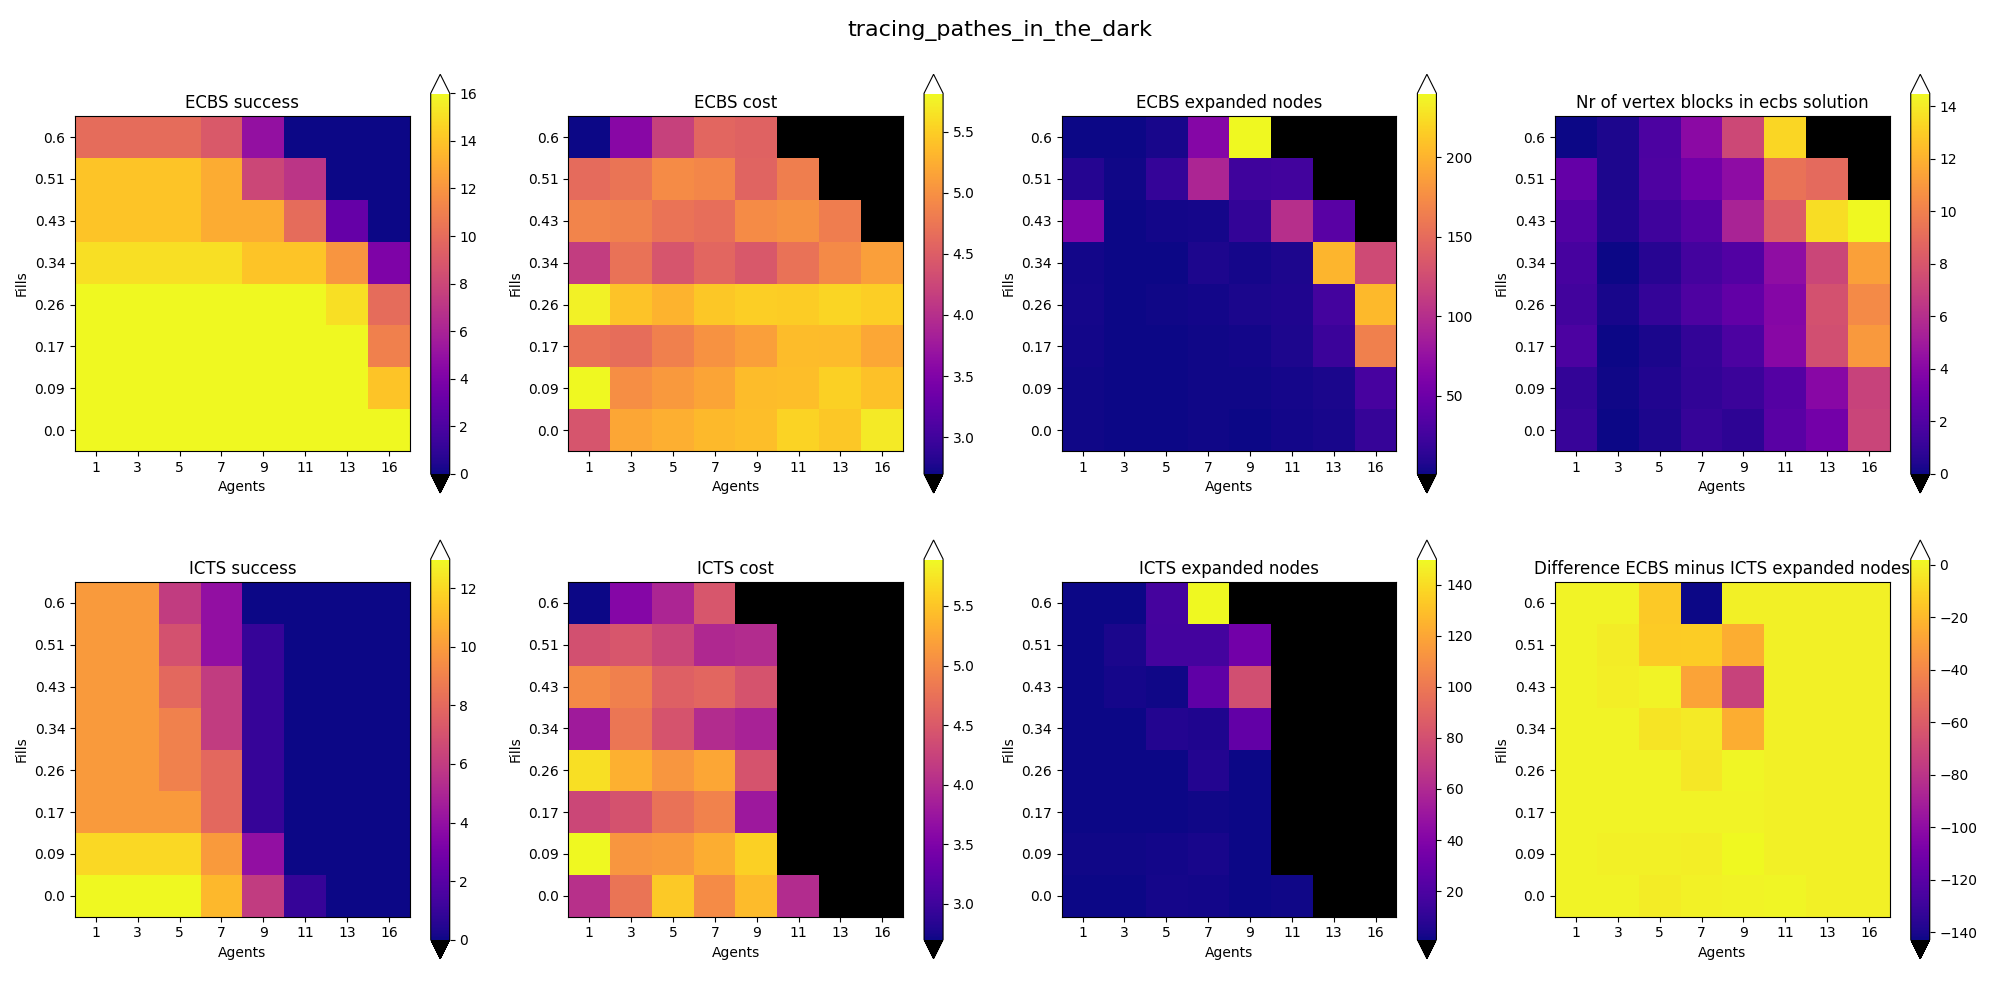
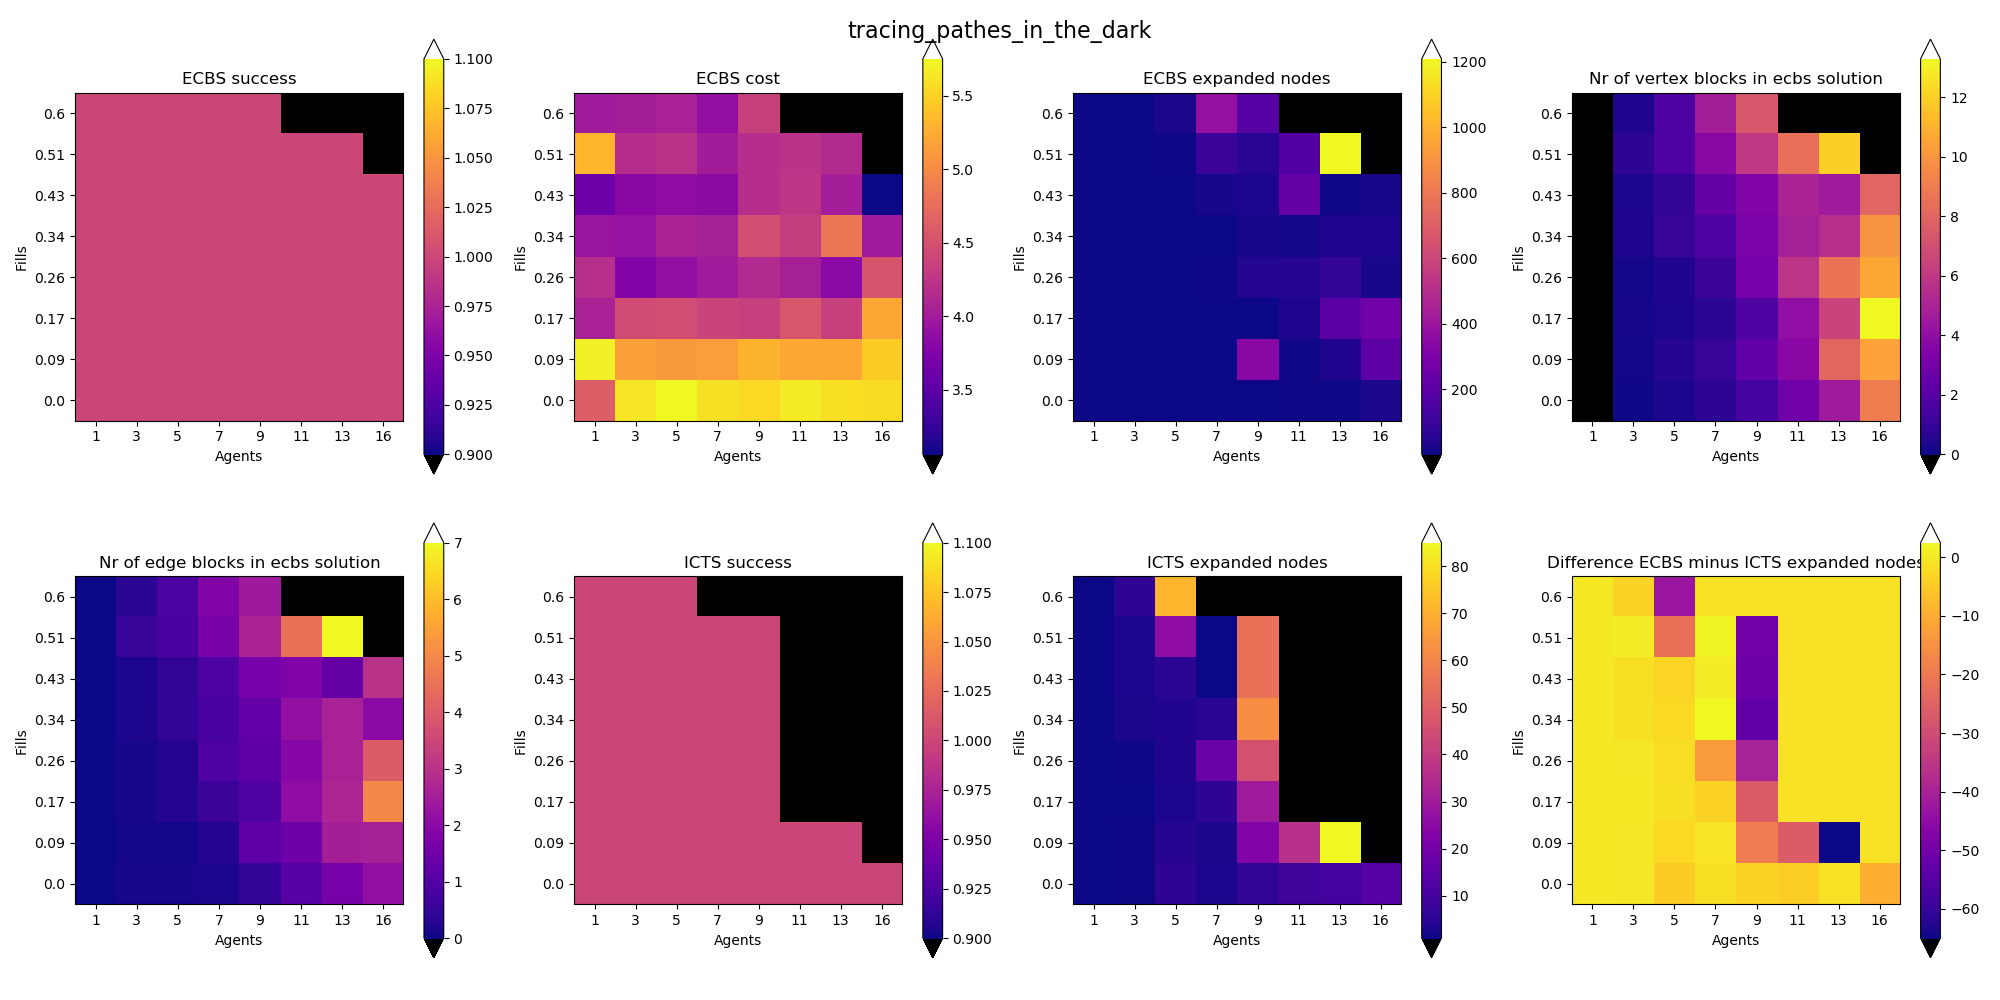
we can plot again

diff --git a/scenarios/main_eval.py b/scenarios/main_eval.py
@@ -16,6 +16,8 @@ from mpl_toolkits.mplot3d import Axes3D
 from scenarios.evaluators import *
 from scenarios.generators import *
 
+EVALUATIONS = 'evaluations'
+# -------------------------
 WELL_FORMED = "well_formed"
 DIFF_INDEP = "diff_indep"
 DIFF_SIM_DECEN = "diff_sim_decen"
@@ -33,7 +35,7 @@ DIFFERENCE_ECBS_EN_MINUS_ICTS_EN = "difference_ecbs_en_-_icts_en"
 
 def init_values_debug():
     size = 8  # size for all scenarios
-    n_fills = 2  # how many different fill values there should be
+    n_fills = 3  # how many different fill values there should be
     n_n_agentss = 2  # how many different numbers of agents should there be"""
     n_runs = 2  # how many runs per configuration
     max_fill = .4  # maximal fill to sample until
@@ -54,6 +56,11 @@ def get_fname(generator_name, evaluation, extension):
             evaluation + "." + extension)
 
 
+def get_fname_both(evaluation, extension):
+    return ("scenarios/res_both-" +
+            evaluation + "." + extension)
+
+
 def genstr(generator):
     generator_name = str(generator).split("at 0x")[
         0].replace("<function ", "").replace(" ", "")
@@ -61,7 +68,7 @@ def genstr(generator):
 
 
 def plot_results(
-        results: List[np.ndarray], titles: List[str],
+        results: List[pd.DataFrame], titles: List[str],
         generator_name: Callable, n_agentss: List[int], fills: List[float],
         evaluation: str):
     n_fills = len(fills)
@@ -80,19 +87,16 @@ def plot_results(
         # do we have any results?
         assert not np.all(r == 0)
         assert not np.all(r == -1)
-        if len(r.shape) == 3:
-            r_final = np.full([n_fills, n_n_agentss], INVALID, dtype=np.float)
-            for i_f, i_a in product(range(n_fills),
-                                    range(n_n_agentss)):
-                this_data = r[:, i_f, i_a]
-                if len(this_data[this_data != INVALID]) > 0:
-                    r_final[i_f, i_a] = np.mean(
-                        this_data[this_data != INVALID]
-                    )
-        elif len(r.shape) == 2:
-            r_final = r
-        else:
-            raise RuntimeError("results must have 2 or 3 dimensions")
+        r_final = np.full([n_fills, n_n_agentss], INVALID, dtype=np.float)
+        for i_f, i_a in product(range(n_fills),
+                                range(n_n_agentss)):
+            fill = fills[i_f]
+            n_agents = n_agentss[i_a]
+            this_data = r.loc[(fill, n_agents)].to_numpy()
+            if len(this_data[this_data != INVALID]) > 0:
+                r_final[i_f, i_a] = np.mean(
+                    this_data[this_data != INVALID]
+                )
         r_min = np.min(r_final[r_final != INVALID])
         if "Difference" not in titles[i]:  # not on the difference
             assert r_min >= 0, "no negative results (except INVALID)"
@@ -155,14 +159,14 @@ def main_icts():
         'generators': list(map(genstr, generators)),
         'fills': fills,
         'n_agentss': n_agentss,
-        'evaluations': evaluations
+        EVALUATIONS: evaluations
     }
     idx = pd.MultiIndex.from_product(
         index_arrays.values(), names=index_arrays.keys())
-    all_results = pd.DataFrame(index=idx)
+    df_results = pd.DataFrame(index=idx)
 
-    all_results.sort_index(inplace=True)
-    assert len(index_arrays) == all_results.index.lexsort_depth
+    df_results.sort_index(inplace=True)
+    assert len(index_arrays) == df_results.index.lexsort_depth
 
     t = time.time()
     i = 0
@@ -175,21 +179,21 @@ def main_icts():
               (i, n_runs * n_fills * n_n_agentss * len(generators)))
         # Taking care of some little pandas ...........................
         col = str(i_r)
-        if col not in all_results.columns:
-            all_results[col] = [-1] * len(all_results.index)
-        all_results.sort_index(inplace=True)
+        if col not in df_results.columns:
+            df_results[col] = [-1] * len(df_results.index)
+        df_results.sort_index(inplace=True)
         # generating a scenario .......................................
         fill = fills[i_f]
         n_agents = n_agentss[i_a]
         env, starts, goals = gen(
             size, fill, n_agents, seed=i_r)
         # calculating optimal cost ....................................
-        if i_f > 0 and all_results.loc[
+        if i_f > 0 and df_results.loc[
                 (genstr(gen), fills[i_f-1], n_agents, ECBS_COST), col
         ] == INVALID:
             # previous fills timed out
             res_ecbs = INVALID
-        elif i_a > 0 and all_results.loc[
+        elif i_a > 0 and df_results.loc[
                 (genstr(gen), fill, n_agentss[i_a-1], ECBS_COST), col
         ] == INVALID:
             # previous agent count failed as well
@@ -197,11 +201,11 @@ def main_icts():
         else:
             res_ecbs = cost_ecbs(env, starts, goals)
         if res_ecbs != INVALID:
-            all_results.loc[
+            df_results.loc[
                 (genstr(gen), fill, n_agents, ECBS_SUCCESS), col] = 1
-            all_results.loc[
+            df_results.loc[
                 (genstr(gen), fill, n_agents, ECBS_COST), col] = res_ecbs
-            all_results.loc[
+            df_results.loc[
                 (genstr(gen), fill, n_agents, ECBS_EXPANDED_NODES), col
             ] = expanded_nodes_ecbs(
                 env, starts, goals)
@@ -209,27 +213,27 @@ def main_icts():
             blocks = blocks_ecbs(env, starts, goals)
             if blocks != INVALID:
                 (
-                    all_results.loc[
+                    df_results.loc[
                         (genstr(gen), fill, n_agents,
                          ECBS_VERTEX_BLOCKS), col],
-                    all_results.loc[
+                    df_results.loc[
                         (genstr(gen), fill, n_agents,
                          ECBS_EDGE_BLOCKS), col]
                 ) = blocks
             else:
-                all_results.loc[
+                df_results.loc[
                     (genstr(gen), fill, n_agents, ECBS_VERTEX_BLOCKS), col
                 ] = INVALID
-                all_results.loc[
+                df_results.loc[
                     (genstr(gen), fill, n_agents, ECBS_EDGE_BLOCKS)
                 ] = INVALID
         # what is icts cost? ..........................................
-        if i_f > 0 and all_results.loc[
+        if i_f > 0 and df_results.loc[
                 (genstr(gen), fills[i_f-1], n_agents, ICTS_SUCCESS), col
         ] == INVALID:
             # previous fills timed out
             res_icts = INVALID
-        elif i_a > 0 and all_results.loc[
+        elif i_a > 0 and df_results.loc[
                 (genstr(gen), fill, n_agentss[i_a-1], ICTS_SUCCESS), col
         ] == INVALID:
             # previous agent count failed as well
@@ -237,33 +241,33 @@ def main_icts():
         else:
             res_icts = cost_icts(env, starts, goals)
         if res_icts != INVALID:
-            all_results.loc[
+            df_results.loc[
                 (genstr(gen), fill, n_agents, ICTS_SUCCESS), col] = 1
             # all_results.loc[
             #     (genstr(gen), fill, n_agents, ICTS_COST), col] = res_icts
-            all_results.loc[
+            df_results.loc[
                 (genstr(gen), fill, n_agents, ICTS_EXPANDED_NODES), col
             ] = expanded_nodes_icts(
                 env, starts, goals)
         # run icts and compare n of expanded nodes
         if (
-            all_results.loc[
+            df_results.loc[
                 (genstr(gen), fill, n_agents, ECBS_EXPANDED_NODES), col
             ] != INVALID and
-            all_results.loc[
+            df_results.loc[
                 (genstr(gen), fill, n_agents, ICTS_EXPANDED_NODES), col
             ] != INVALID
         ):
-            all_results.loc[
+            df_results.loc[
                 (genstr(gen), fill, n_agents,
                  DIFFERENCE_ECBS_EN_MINUS_ICTS_EN),
                 col
             ] = float(
-                all_results.loc[
+                df_results.loc[
                     (genstr(gen), fill, n_agents, ECBS_EXPANDED_NODES),
                     col
                 ] -
-                all_results.loc[
+                df_results.loc[
                     (genstr(gen), fill, n_agents, ICTS_EXPANDED_NODES),
                     col
                 ]
@@ -273,32 +277,38 @@ def main_icts():
                            None,
                            'display.max_columns',
                            None):  # all rows and columns
-        print(all_results)
+        print(df_results)
 
     elapsed_time = time.time() - t
     print("elapsed time: %.3fs" % elapsed_time)
 
+    df_results.to_pickle(get_fname_both("icts", "pkl"))
+
     for gen in generators:
-        results = all_results[str(gen)]
-        # saving
-        with open(get_fname(genstr(gen), "icts", "pkl"), 'wb') as f:
-            pickle.dump(results, f)
         # plot
         plot_results(
-            [all_results.loc[ECBS_SUCCESS],
-             all_results.loc[ECBS_COST],
-             all_results.loc[ECBS_EXPANDED_NODES],
-             all_results.loc[ECBS_VERTEX_BLOCKS],
-             all_results.loc[ICTS_SUCCESS],
-             all_results.loc[ICTS_COST],
-             all_results.loc[ICTS_EXPANDED_NODES],
-             all_results.loc[DIFFERENCE_ECBS_EN_MINUS_ICTS_EN]],
+            [df_results.loc[(genstr(gen))].xs(
+                ECBS_SUCCESS, level=EVALUATIONS),
+             df_results.loc[(genstr(gen))].xs(
+                 ECBS_COST, level=EVALUATIONS),
+             df_results.loc[(genstr(gen))].xs(
+                 ECBS_EXPANDED_NODES, level=EVALUATIONS),
+             df_results.loc[(genstr(gen))].xs(
+                 ECBS_VERTEX_BLOCKS, level=EVALUATIONS),
+             df_results.loc[(genstr(gen))].xs(
+                 ECBS_EDGE_BLOCKS, level=EVALUATIONS),
+             df_results.loc[(genstr(gen))].xs(
+                 ICTS_SUCCESS, level=EVALUATIONS),
+             df_results.loc[(genstr(gen))].xs(
+                 ICTS_EXPANDED_NODES, level=EVALUATIONS),
+             df_results.loc[(genstr(gen))].xs(
+                 DIFFERENCE_ECBS_EN_MINUS_ICTS_EN, level=EVALUATIONS)],
             ["ECBS success",
              "ECBS cost",
              "ECBS expanded nodes",
              "Nr of vertex blocks in ecbs solution",
+             "Nr of edge blocks in ecbs solution",
              "ICTS success",
-             "ICTS cost",
              "ICTS expanded nodes",
              "Difference ECBS minus ICTS expanded nodes"],
             generator_name=genstr(gen),

diff --git a/learn/pandas_multiindexarray.py b/learn/pandas_multiindexarray.py
@@ -2,7 +2,7 @@
 import numpy as np
 import pandas as pd
 
-print("A DataFrame " + "="*30)
+print("A DataFrame " + "="*60)
 df = pd.DataFrame(data={
     'col1': range(8),
     'col2': np.linspace(9, 9.1, 8),
@@ -10,7 +10,7 @@ df = pd.DataFrame(data={
 print(df)
 print(df.info())
 
-print("Multiindex " + "="*30)
+print("Multiindex " + "="*60)
 index_arrays = [[1, 2], ['red', 'blue'], ['sweet', 'sour']]
 idx = pd.MultiIndex.from_product(
     index_arrays, names=('number', 'color', 'taste'))
@@ -21,9 +21,28 @@ df = pd.DataFrame(data={
     'col3': np.linspace(90, 20, 8)},
     index=idx
 )
+print("full df")
 print(df)
+print("-"*80)
+
+print("info")
 print(df.info())
+print("-"*80)
+
+print("nr: 1")
 print(df.loc[1])
+print("-"*80)
+
+print("color: blue")
+print(df.xs('blue', level='color'))
+print((df.xs('blue', level='color')).__class__)
+print("-"*80)
+
+print("color: blue and nr: 1")
 print(df.loc[(1, 'blue'), :])
+print("-"*80)
+
+print("editing")
 df.loc[(1, 'blue', 'sweet'), 'col3'] = 66
 print(df)
+print("-"*80)
